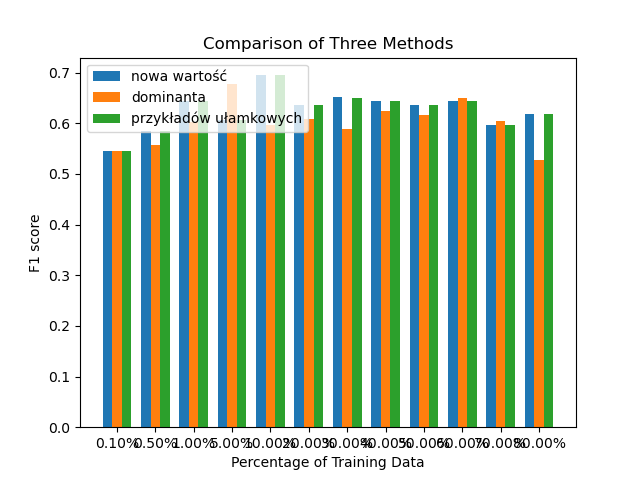
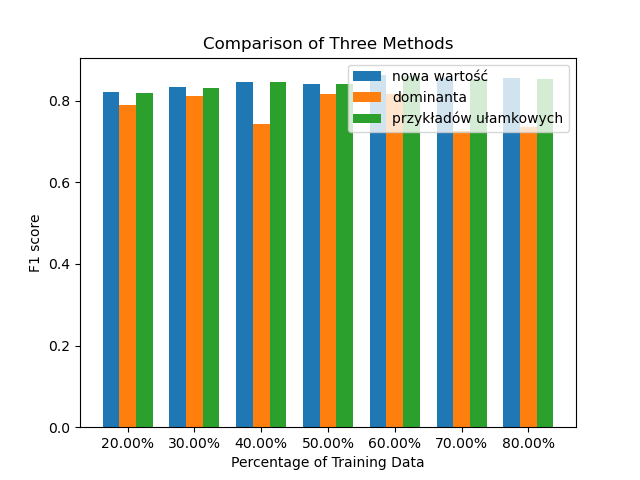
Kinda works better

diff --git a/decision_tree.py b/decision_tree.py
@@ -91,6 +91,18 @@ class DecisionTree():
                 wrong_predictions += 1
         return correct_predictions / (correct_predictions + wrong_predictions)
 
+    def calculate_majority_class(self, class_vals):
+        """
+        Calculate the majority class in the given class values.
+
+        Parameters:
+            class_vals (list): A list of class values.
+
+        Returns:
+            object: The majority class.
+        """
+        return max(set(class_vals), key=class_vals.count)
+
     def calculate_confusion_matrix(self, test_data, checked_class):
         """
         Calculates the confusion matrix for a given test data and checked class.
@@ -223,7 +235,8 @@ class DecisionTree():
                 max_inf_gain = info_gain
                 max_inf_gain_attr_index = attr_index
         uniq_attr_vals = {}
-        tree = Node(max_inf_gain_attr_index)
+        majority_class = self.calculate_majority_class(new_train_data[1])
+        tree = Node(max_inf_gain_attr_index, majority_class)
         for i, row in enumerate(new_train_data[0]["attrs_vals"]):
             if row[max_inf_gain_attr_index] not in uniq_attr_vals:
                 uniq_attr_vals[row[max_inf_gain_attr_index]] = {}
@@ -279,11 +292,12 @@ class DecisionTree():
             attr_index = node.attr_index
             input_attr_val = input_data[attr_index]
             if input_attr_val not in node.branches:
-                return self.default_prediction
+                print(input_attr_val)
+                return node.default_prediction
             node = node.branches[input_attr_val]
         if isinstance(node, Leaf):
             return node.decision
-        return self.default_prediction
+        return node.default_prediction
 
     def predict_decision_tree(self, input_data):
         """
@@ -306,9 +320,10 @@ class Node:
         attr_index (int): The index of the attribute associated with this node.
         branches (dict): A dictionary mapping attribute values to child nodes.
     """
-    def __init__(self, attr_index):
+    def __init__(self, attr_index, default_prediction):
         self.attr_index = attr_index
         self.branches = {}
+        self.default_prediction = default_prediction
 
     def add_branch(self, attr_val, children):
         self.branches[attr_val] = children

diff --git a/main.py b/main.py
@@ -6,7 +6,7 @@ import numpy as np
 import random
 from sklearn.metrics import f1_score, confusion_matrix
 
-row_attrs, class_vals = get_data("car.data")
+row_attrs, class_vals = get_data("nursery.data")
 """
 uniq_attr_vals = np.unique([i[ATTR_TO_INDEX.get("persons")] for i in row_attrs])
 class_val_counter_by_attr = {
@@ -53,7 +53,7 @@ print(acc)
 visualize_tree(random_forest.trees[0], ATTRS_NAMES, "tree-small.png")
 """
 #######
- # compare acc by percent of train data
+# compare acc by percent of train data
 #######
 """
 list_of_percent_train_data = [i*0.01 for i in range(5, 20, 5)] + [i*0.1 for i in range(2, 10, 4)] + [i for i in range(1, 5, 2)] + [i for i in range(5, 35, 5)] + [i for i in range(35, 85, 10)]
@@ -131,7 +131,7 @@ visulate_acc_per_input_method(list_of_acc, labels_for_percent_of_train_data)
 ######
 # compare acc of diff methods
 ######
-list_of_percent_train_data = [0.1, 0.5, 1, 5, 10, 20, 30, 40, 50, 60, 70, 80]
+list_of_percent_train_data = [20, 30, 40, 50, 60, 70, 80]
 labels_for_percent_of_train_data = []
 list_of_acc = []
 list_of_f1 = []

diff --git a/utils.py b/utils.py
@@ -2,10 +2,10 @@ import random
 
 random.seed(42137)
 
-#ATTRS_NAMES = ["parents", "has_nurs", "form", "children", "housing", "finance", "social", "health"]
-#CLASS_VALUES = ["not_recom", "recommend", "very_recom", "priority", "spec_prior"]
-ATTRS_NAMES=["buying", "maint", "doors", "persons", "lug_boot", "safety"]
-CLASS_VALUES = ["unacc", "acc", "good", "vgood"]
-MAX_DEPTH = 4
+ATTRS_NAMES = ["parents", "has_nurs", "form", "children", "housing", "finance", "social", "health"]
+CLASS_VALUES = ["not_recom", "recommend", "very_recom", "priority", "spec_prior"]
+#ATTRS_NAMES=["buying", "maint", "doors", "persons", "lug_boot", "safety"]
+#CLASS_VALUES = ["unacc", "acc", "good", "vgood"]
+MAX_DEPTH = 0
 PERCENT_OF_TRAIN_DATA = 5
 ATTR_TO_INDEX = {ATTRS_NAMES[i]: i for i in range(len(ATTRS_NAMES))}
